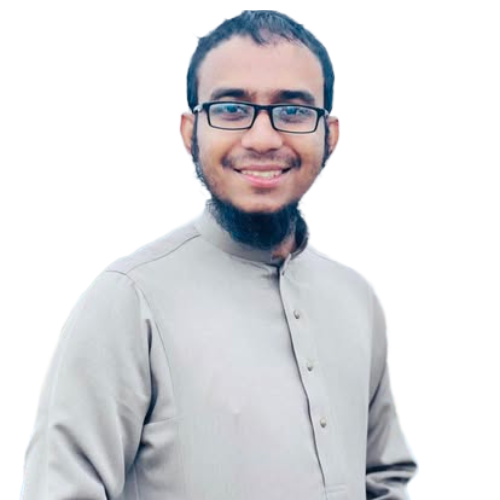
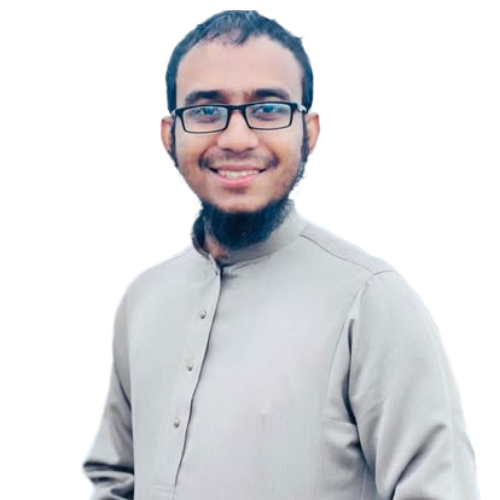
pik up

diff --git a/index.html b/index.html
@@ -28,7 +28,8 @@
              <h4 class="banner-greetings dark-2">Hi,I am</h4>
              <h1 class="banner-title">Khizir Muhammad</h1>
              <p class="banner-description">
-                Shot what able cold new see hold.Friendly as an betrayed formerly he. Morning because as to society behaved moments.
+                I recreate and present songs by Bangladesh renowned Islamic musical groups Kalarab Shilpigosthi and Holy Tune in my own unique melodic and musical style.
+While composing and tuning these renditions, I preserve the original spiritual message, emotional depth, and melodic harmony that make these nasheeds so impactful.
              </p>
 
              
@@ -38,7 +39,7 @@
 
              
             </div>
-              <img class="banner-profile-pic" src="hardy.png.png" alt="">
+              <img class="banner-profile-pic" src="images/Khizir.png" alt="">
         </div>
       
     </header>
@@ -47,7 +48,8 @@
     <section class="about secondary-bg ">
         <h3 class="section-title">About Me</h3>
         <p class="section-description">
-           I, m a designer & developer with a passion for web design. I enjoy developing simple, clean and slick websites that provide real value to the end user. Thousands of clients have procured exceptional resulfs while working with me. Delivering work within time and budget which meets clients requirements in our mata.
+           আমি বাংলাদেশের জনপ্রিয় ইসলামিক সংগীত দল Kalarab Shilpigosthi এবং Holy Tune-এর গানগুলোকে আমার নিজস্ব সংগীতধারা ও টিউনিংয়ে নতুনভাবে সাজিয়ে উপস্থাপন করি।
+এই রেন্ডিশনগুলোতে আমি মূল সুর ও আবেগের সাথে সামঞ্জস্য রেখে আধ্যাত্মিক বার্তা, অনুভূতি এবং সুরের ভারসাম্য বজায় রাখার চেষ্টা করি।
         </p>
         <div class="about-items">
             <!-- .about-item*4>p.item-title.item-description -->
